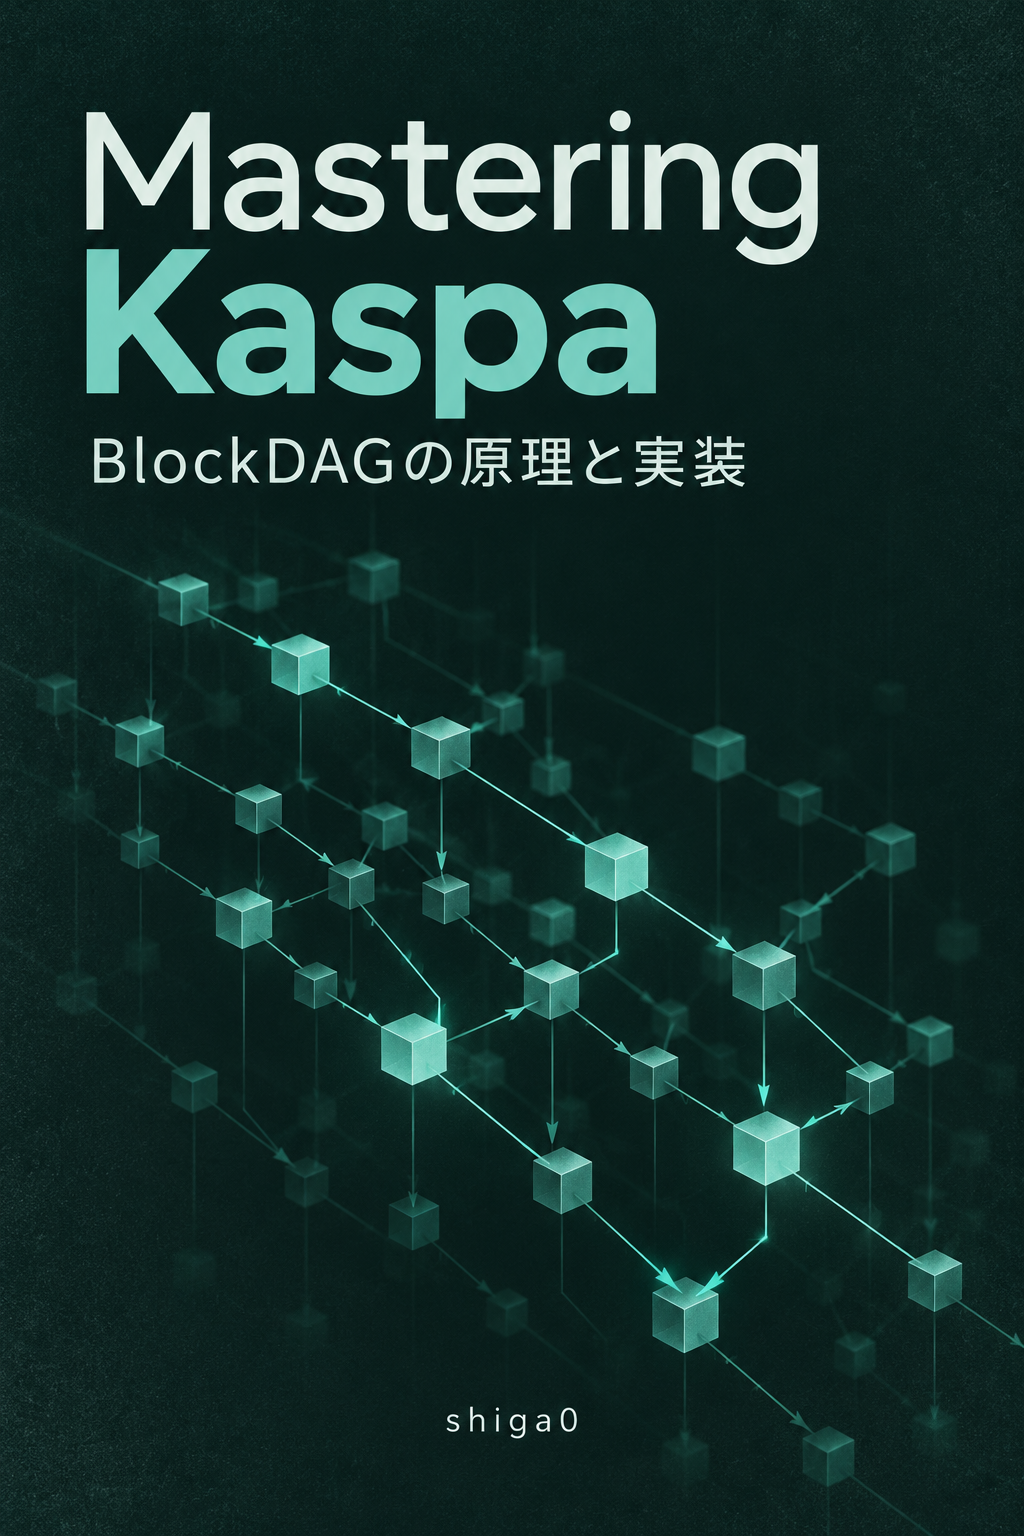
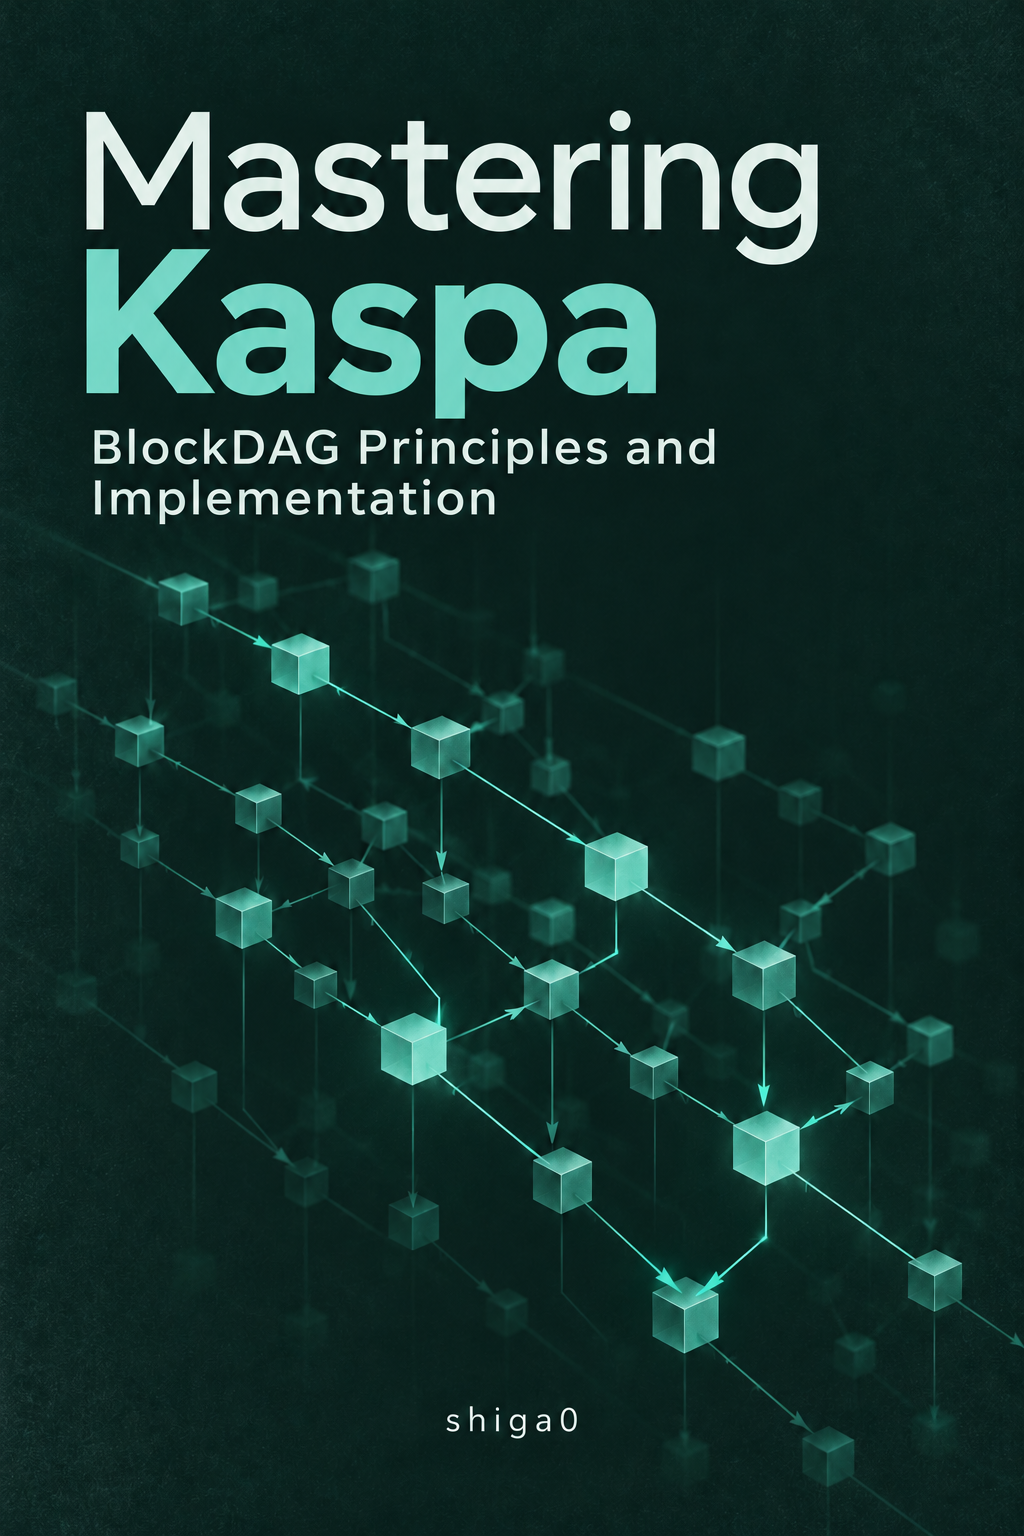
docs: use English-only cover artwork

Changed region(s): [[0.0938, 0.2812, 0.7188, 0.3438]]

diff --git a/src/cover.md b/src/cover.md
@@ -1,4 +1,4 @@
-<section class="book-cover" aria-label="Mastering Kaspa — BlockDAGの原理と実装">
-  <img src="images/cover.png" width="1024" height="1536" alt="Mastering Kaspa — BlockDAGの原理と実装。著者 shiga0。深い青緑の背景に、ターコイズのブロックが分岐・合流する表紙。">
+<section class="book-cover" aria-label="Mastering Kaspa — BlockDAG Principles and Implementation">
+  <img src="images/cover.png" width="1024" height="1536" alt="Mastering Kaspa — BlockDAG Principles and Implementation。著者 shiga0。深い青緑の背景に、ターコイズのブロックが分岐・合流する英語表記の表紙。">
   <p><a class="book-cover-start" href="introduction.html">読み始める →</a></p>
 </section>

diff --git a/README.md b/README.md
@@ -1,7 +1,7 @@
 # Mastering Kaspa — BlockDAGの原理と実装
 
 <a href="https://shiga0.github.io/mastering-kaspa/">
-  <img src="src/images/cover.png" width="280" alt="Mastering Kaspa — BlockDAGの原理と実装の表紙">
+  <img src="src/images/cover.png" width="280" alt="Mastering Kaspa — BlockDAG Principles and Implementation。著者 shiga0。英語表記の表紙。">
 </a>
 
 Kaspaの基礎から、BlockDAG、GHOSTDAG、コンセンサス、Rustによる実装、アプリケーション開発までを体系的に学ぶための技術書です。
